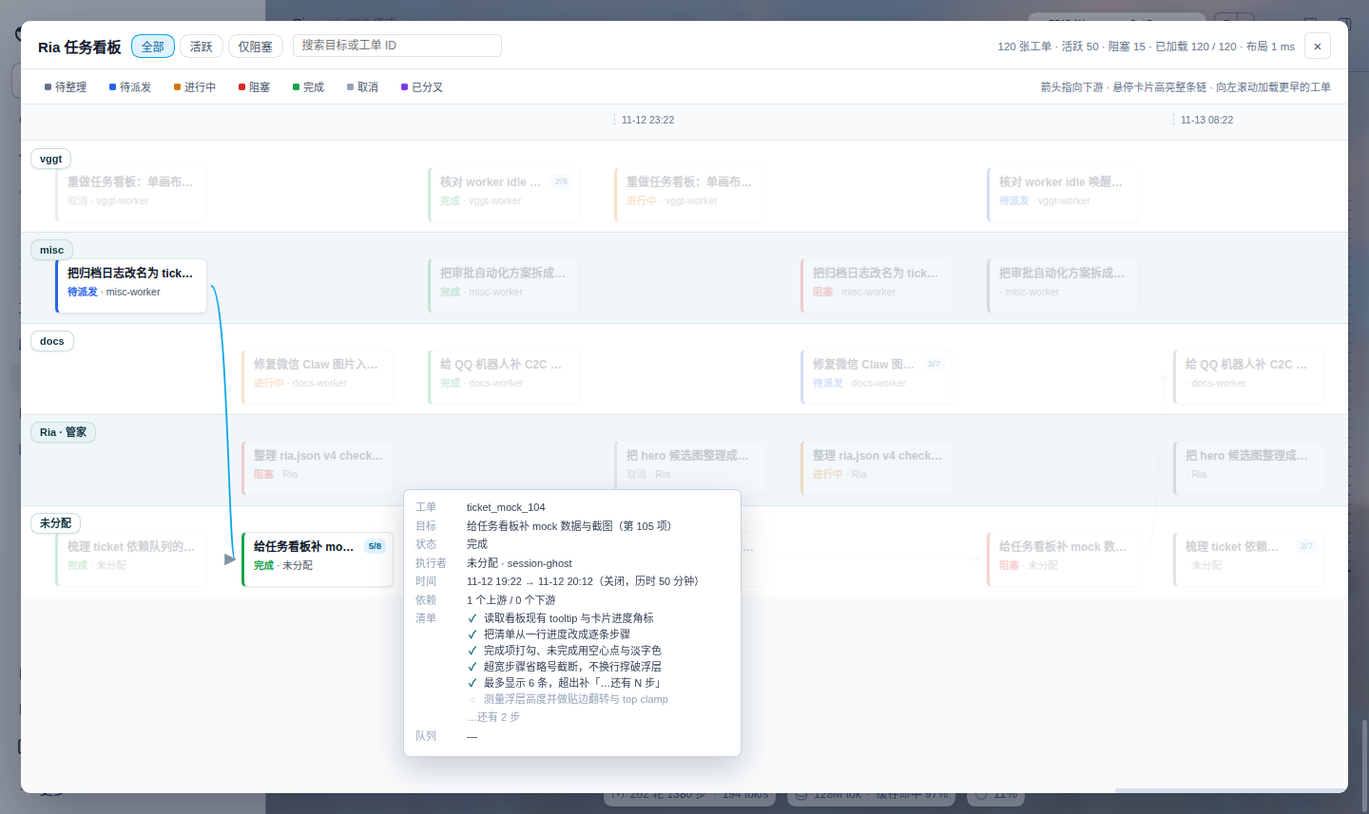
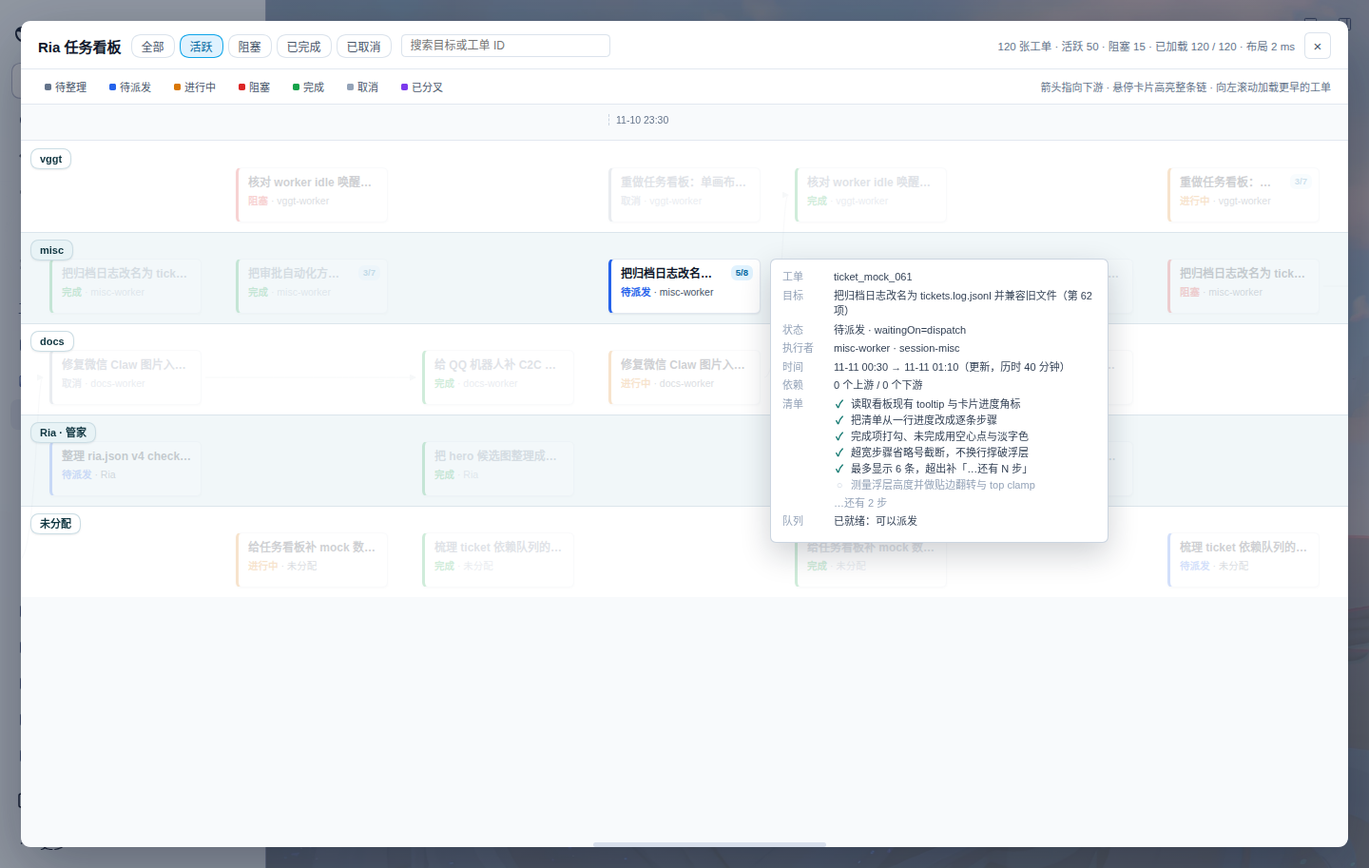
feat: dim inactive board tickets and center active ones

diff --git a/lib/client.js b/lib/client.js
@@ -827,7 +827,11 @@ window.__ModuleLoader__.load({
           React.createElement(RiaIcon, { size: props.size })
         ),
         open ? React.createElement(ChannelsDialog, { initial: status, onClose: close }) : null,
-        boardOpen ? React.createElement(BoardOverlay, { open: boardOpen, onClose: function () { setBoardOpen(false); } }) : null,
+        boardOpen ? React.createElement(BoardOverlay, {
+          open: boardOpen,
+          onClose: function () { setBoardOpen(false); },
+          onOpenSession: function (sessionId) { return openKnown(ctx, sessionId); }
+        }) : null,
         toast ? ReactDOM.createPortal(
           React.createElement(
             "div",
@@ -1243,6 +1247,58 @@ window.__ModuleLoader__.load({
     var BOARD_BAND_PAD_TOP = 28;
     var BOARD_BAND_PAD_BOTTOM = 10;
 
+    // Filtering never changes what is laid out: every tab keeps the full
+    // canvas and only dims the tickets it does not match.
+    var BOARD_FILTERS = [
+      { id: "all", label: "全部" },
+      { id: "active", label: "活跃" },
+      { id: "blocked", label: "阻塞" },
+      { id: "done", label: "已完成" },
+      { id: "cancelled", label: "已取消" }
+    ];
+    var BOARD_DEFAULT_FILTER = "active";
+
+    function boardMatchesFilter(ticket, filter) {
+      if (!ticket) return false;
+      if (!filter || filter === "all") return true;
+      if (filter === "active") return !BOARD_TERMINAL[ticket.status];
+      if (filter === "blocked") return ticket.status === "blocked";
+      return ticket.status === filter;
+    }
+
+    // Search still narrows the canvas; the status tabs do not. Keeping this
+    // separate is what lets the tabs dim cards in place instead of moving them.
+    function boardFilteredTickets(tickets, query) {
+      var list = Array.isArray(tickets) ? tickets : [];
+      var needle = String(query || "").trim().toLowerCase();
+      if (!needle) return list;
+      return list.filter(function (ticket) {
+        return String(ticket.goal || "").toLowerCase().indexOf(needle) >= 0 ||
+          String(ticket.ticketId || "").toLowerCase().indexOf(needle) >= 0;
+      });
+    }
+
+    // Center the horizontal viewport on the span of matching tickets. Returns
+    // null when nothing matches so the caller can fall back to the newest end.
+    function boardFocusScroll(layout, tickets, filter, clientWidth) {
+      var positions = layout && layout.positions;
+      if (!positions || typeof positions.get !== "function") return null;
+      var left = Infinity;
+      var right = -Infinity;
+      (Array.isArray(tickets) ? tickets : []).forEach(function (ticket) {
+        if (!boardMatchesFilter(ticket, filter)) return;
+        var position = positions.get(ticket.ticketId);
+        if (!position || !Number.isFinite(position.x)) return;
+        left = Math.min(left, position.x);
+        right = Math.max(right, position.x + BOARD_CARD_WIDTH);
+      });
+      if (!Number.isFinite(left) || !Number.isFinite(right)) return null;
+      var viewport = Math.max(0, Number(clientWidth) || 0);
+      var max = Math.max(0, (Number(layout.width) || 0) - viewport);
+      var target = (left + right) / 2 - viewport / 2;
+      return Math.max(0, Math.min(target, max));
+    }
+
     function boardStatus(status) {
       return BOARD_STATUS[status] || { label: String(status || ""), color: "#64748b" };
     }
@@ -1507,11 +1563,16 @@ window.__ModuleLoader__.load({
       var ticket = props.ticket;
       var meta = boardStatus(ticket.status);
       var progress = typeof ticket.progress === "string" ? ticket.progress : "";
+      var muted = Boolean(props.muted);
       return React.createElement(
         "div",
         {
           "data-ria-card": ticket.ticketId,
           "data-ria-status": ticket.status,
+          onClick: function (event) {
+            event.stopPropagation();
+            if (props.onOpen) props.onOpen(ticket);
+          },
           onMouseEnter: function (event) { props.onEnter(ticket, event.currentTarget); },
           onMouseLeave: props.onLeave,
           style: {
@@ -1527,9 +1588,9 @@ window.__ModuleLoader__.load({
             borderRadius: "7px",
             background: "#ffffff",
             boxShadow: "0 1px 2px rgba(15, 23, 42, 0.07)",
-            opacity: props.dimmed ? 0.2 : 1,
+            opacity: props.dimmed ? 0.2 : muted ? 0.36 : 1,
             transition: "opacity 120ms ease",
-            cursor: "default",
+            cursor: props.onOpen ? "pointer" : "default",
             overflow: "hidden",
             zIndex: 2
           }
@@ -1541,7 +1602,7 @@ window.__ModuleLoader__.load({
               paddingRight: progress ? "30px" : "0",
               fontSize: "12px",
               lineHeight: "1.35",
-              color: "#0f172a",
+              color: muted ? "#64748b" : "#0f172a",
               fontWeight: "600",
               overflow: "hidden",
               textOverflow: "ellipsis",
@@ -1557,7 +1618,7 @@ window.__ModuleLoader__.load({
               marginTop: "5px",
               fontSize: "10.5px",
               lineHeight: "1.3",
-              color: "#475569",
+              color: muted ? "#94a3b8" : "#475569",
               overflow: "hidden",
               textOverflow: "ellipsis",
               whiteSpace: "nowrap"
@@ -1733,7 +1794,7 @@ window.__ModuleLoader__.load({
       var noticeState = React.useState("");
       var notice = noticeState[0];
       var setNotice = noticeState[1];
-      var filterState = React.useState("all");
+      var filterState = React.useState(BOARD_DEFAULT_FILTER);
       var filter = filterState[0];
       var setFilter = filterState[1];
       var queryState = React.useState("");
@@ -1749,7 +1810,7 @@ window.__ModuleLoader__.load({
       var tip = tipState[0];
       var setTip = tipState[1];
       var scrollRef = React.useRef(null);
-      var initialScrollRef = React.useRef(false);
+      var focusScrollRef = React.useRef(false);
       var scrollAdjustRef = React.useRef(null);
       var loadingOlderRef = React.useRef(false);
       var suppressScrollRef = React.useRef(false);
@@ -1757,9 +1818,11 @@ window.__ModuleLoader__.load({
       React.useEffect(function () {
         if (!open) return;
         var cancelled = false;
-        initialScrollRef.current = false;
+        focusScrollRef.current = true;
         loadingOlderRef.current = false;
         scrollAdjustRef.current = null;
+        setFilter(BOARD_DEFAULT_FILTER);
+        setQuery("");
         setLoading(true);
         setError("");
         setNotice("");
@@ -1790,16 +1853,9 @@ window.__ModuleLoader__.load({
 
       var view = React.useMemo(function () {
         var all = board && Array.isArray(board.tickets) ? board.tickets : [];
-        var needle = query.trim().toLowerCase();
-        var visible = all.filter(function (ticket) {
-          if (filter === "active" && BOARD_TERMINAL[ticket.status]) return false;
-          if (filter === "blocked" && ticket.status !== "blocked") return false;
-          if (!needle) return true;
-          return String(ticket.goal || "").toLowerCase().indexOf(needle) >= 0 ||
-            String(ticket.ticketId || "").toLowerCase().indexOf(needle) >= 0;
-        });
-        return { all: all, visible: visible, layout: boardLayout(visible, board && board.lanes) };
-      }, [board, filter, query]);
+        var base = boardFilteredTickets(all, query);
+        return { all: all, base: base, layout: boardLayout(base, board && board.lanes) };
+      }, [board, query]);
 
       function loadOlder() {
         if (!board || !board.page || !board.page.hasMore || loadingOlderRef.current) return;
@@ -1842,18 +1898,26 @@ window.__ModuleLoader__.load({
 
       function onScroll(event) {
         if (suppressScrollRef.current) return;
+        focusScrollRef.current = false;
         setTip(null);
         setHover(null);
         if (event.currentTarget.scrollLeft < 180) loadOlder();
       }
 
+      // Center the matching tickets once per open or tab switch. Layout
+      // recomputes (search, older pages) must never steal the user's scroll.
       React.useLayoutEffect(function () {
-        if (!open || !board || initialScrollRef.current) return;
+        if (!open || !board || !focusScrollRef.current) return;
         var scroll = scrollRef.current;
         if (!scroll) return;
-        scroll.scrollLeft = Math.max(0, scroll.scrollWidth - scroll.clientWidth);
-        initialScrollRef.current = true;
-      }, [open, board, view.layout.width]);
+        var target = boardFocusScroll(view.layout, view.base, filter, scroll.clientWidth);
+        suppressScrollRef.current = true;
+        scroll.scrollLeft = target === null
+          ? Math.max(0, scroll.scrollWidth - scroll.clientWidth)
+          : Math.min(target, Math.max(0, scroll.scrollWidth - scroll.clientWidth));
+        focusScrollRef.current = false;
+        requestAnimationFrame(function () { suppressScrollRef.current = false; });
+      }, [open, board, filter, view.layout.width]);
 
       React.useLayoutEffect(function () {
         if (!open) return;
@@ -1866,6 +1930,23 @@ window.__ModuleLoader__.load({
         scrollAdjustRef.current = null;
         requestAnimationFrame(function () { suppressScrollRef.current = false; });
       }, [open, board]);
+
+      function openTicket(ticket) {
+        if (!ticket) return;
+        var sessionId = ticket.executor === "self"
+          ? ((board && board.riaSessionId) || knownRiaId)
+          : ticket.executor;
+        if (!sessionId || ticket.executorMissing) {
+          setNotice("这个工单的执行会话已不存在，无法打开。");
+          return;
+        }
+        if (typeof props.onOpenSession !== "function") return;
+        Promise.resolve(props.onOpenSession(sessionId)).then(function () {
+          onClose();
+        }).catch(function (failure) {
+          setNotice("打开会话失败：" + messageOf(failure));
+        });
+      }
 
       function showTip(ticket, node) {
         var box = node.getBoundingClientRect();
@@ -1954,13 +2035,19 @@ window.__ModuleLoader__.load({
             React.createElement(
               "div",
               { style: { display: "flex", gap: "5px", flexWrap: "wrap" } },
-              [{ id: "all", label: "全部" }, { id: "active", label: "活跃" }, { id: "blocked", label: "仅阻塞" }].map(function (item) {
+              BOARD_FILTERS.map(function (item) {
                 return React.createElement(
                   "button",
                   {
                     key: item.id,
                     type: "button",
-                    onClick: function () { setFilter(item.id); },
+                    "aria-pressed": filter === item.id,
+                    onClick: function () {
+                      if (item.id !== filter) {
+                        focusScrollRef.current = true;
+                        setFilter(item.id);
+                      }
+                    },
                     style: {
                       cursor: "pointer",
                       padding: "3px 10px",
@@ -2049,8 +2136,8 @@ window.__ModuleLoader__.load({
             loading && !board ? React.createElement("div", { style: { padding: "40px", textAlign: "center", color: "#64748b", fontSize: "13px" } }, "正在读取任务…") : null,
             error ? React.createElement("div", { style: { padding: "30px", color: "#b91c1c", fontSize: "13px" } }, "看板读取失败：" + error) : null,
             !loading && !error && board && !view.all.length ? React.createElement("div", { style: { padding: "40px", textAlign: "center", color: "#64748b", fontSize: "13px" } }, "还没有任务。") : null,
-            !loading && !error && board && view.all.length && !view.visible.length ? React.createElement("div", { style: { padding: "40px", textAlign: "center", color: "#64748b", fontSize: "13px" } }, "当前筛选下没有任务。") : null,
-            board && view.visible.length ? React.createElement(
+            !loading && !error && board && view.all.length && !view.base.length ? React.createElement("div", { style: { padding: "40px", textAlign: "center", color: "#64748b", fontSize: "13px" } }, "当前筛选下没有任务。") : null,
+            board && view.base.length ? React.createElement(
               React.Fragment,
               null,
               React.createElement(
@@ -2137,17 +2224,22 @@ window.__ModuleLoader__.load({
                     });
                   })
                 ),
-                view.visible.map(function (ticket) {
+                view.base.map(function (ticket) {
                   var position = view.layout.positions.get(ticket.ticketId);
                   if (!position) return null;
                   var dimmed = (focus !== null && ticket.status !== focus) || (chain !== null && !chain.has(ticket.ticketId));
+                  var muted = filter !== "all" &&
+                    !boardMatchesFilter(ticket, filter) &&
+                    !(chain !== null && chain.has(ticket.ticketId));
                   return React.createElement(BoardCard, {
                     key: ticket.ticketId,
                     ticket: ticket,
                     position: position,
                     dimmed: dimmed,
+                    muted: muted,
                     onEnter: showTip,
-                    onLeave: hideTip
+                    onLeave: hideTip,
+                    onOpen: openTicket
                   });
                 }),
                 React.createElement(

diff --git a/docs/testing.md b/docs/testing.md
@@ -6,7 +6,7 @@
 npm test
 ~~~
 
-smoke 使用 mock ctx 覆盖 ensure、Workspace 挂载、12 个工具、request、工单派发都不加前缀、dispatch guard section 安装到 worker 和 Ria、GET/POST /settings 与 GET /state 的 settings、status、read、memory、持久化、grant 的 set/list/reset 与工单关闭恢复，以及新建 Ria 不写任何 session 事件和第二次 ensure 不重复；近期 worker 覆盖空列表、工单派发后候选的 title/cwd/lastUsedAt/lastTicketGoal/lastTicketStatus、失败请求不更新、scope=sessions 字段、ria.json 持久化和 lossless；dispatch-guard 测试覆盖 installAll、agent/created 与 disposed、重复安装、开关关闭时 text 为空、注册失败只 warn 和 shutdown；wechat 测试覆盖 assistant 文本提取、入口事件过滤、微信入站去重/回显过滤、失败标记、reconnect skip、状态视图，以及图片开关默认开启与显式关闭；wechat-image 测试覆盖图片上传/发送字段与去重、成功发送、暂停、本机相对路径图片提取、缺失/非图片回退、围栏代码跳过和 outbound 关闭；wechat-image-inbound 测试覆盖 webwxgetmsgimg 失败回落 webwxgetmedia、Cookie 与 query、Content-Length/流式超限、无 Cookie 错误传播、落盘命名与重名、纯图片占位、下载失败/空/超限/未知类型降级、30 天与 500 个清理、宿主附件校验失败与投递失败回退纯文本、InboundBridge 投递 text+image；channels 测试覆盖账号 id 归一、二维码 data URL、通道 request id 前缀与互斥、QQ AES-256-GCM 绑定密钥解密与篡改拒绝、客户端通道目录顺序、最近通道存储键与回退、弹窗点击事件隔离，以及微信 Claw 和 QQ 的完整扫码流程（本地假服务、二维码轮询、凭据落盘、暂停恢复）；wechat-claw-image 测试覆盖图片开关归一、AES 解密入站、落盘权限与路径、非图片 item 拒绝、下载失败/超限/文件头错误、inbound 关闭、getuploadurl 字段与 CDN 密文、sendmessage image_item、上传失败回退可见文本、围栏代码跳过、outbound 关闭和暂停不发；wechat-claw-typing 测试覆盖 typing 工单缓存与 ret!=0 重取、start→refresh→cancel 顺序、取消先于出站发送、暂停取消、typing 异常静默仍可收发和开关关闭零请求；qq-bot-typing 测试覆盖 C2C 触发与字段（msg_type/input_notify/msg_seq/msg_id）、群聊与频道不触发、续期次数与回复后停止、异常静默、暂停清理、只有出站不触发和开关关闭零请求；wechat-file 测试覆盖阈值/代码块/表格/标题/链接判定、配置/env 覆盖、文件名、短消息不变、长消息发 .md、失败回退文本，以及上传 multipart 和 appmsg 的字段/签名/去重；approvals 测试覆盖只记录活跃 executor、始终 next()、abort/超时/shutdown 清理和 lossless 输出；grants 测试覆盖过期、startup、工单缺失/关闭、漂移跳过、恢复失败和审计；startup 测试覆盖达到恢复上限后的通知与 blocked 状态、更新/成功派发清零、以及启动异常通知；worker-idle 测试覆盖正常触发、排除 Ria、非 working 工单/running 状态不触发、按工单节流、开关关闭，以及提示文本要求 read/不假设完成/等用户输入时标 blocked；wechat-pause 测试覆盖手动开关与持久化、非微信消息自动暂停、微信入站自动恢复、host_/schedule 合成消息不触发、manual 优先级、暂停时不出站且丢日志、排队丢弃而在途完成、重启保持，以及恢复后补发 outbox；smoke 还验证 pause/unpause 往返后 pausedAt、resumedAt、pausedBy 和重复读取 status 的字段一致；以及 dispatch-notes 按 session/turn 过滤、错误 session 返回空列表、note 持久化、无 note 的请求不记录、snapshot 读取失败仍派发并记录 note；wechat 和 smoke 还覆盖派发 note 的微信镜像：工单格式、未登录/暂停/发送异常都不影响派发与 concludeTurn，失败条目留在 outbox 并可按退避补投；spawn 测试覆盖新建顶层 worker 的参数、title、失败码与 ria_status 可见性；model 测试覆盖 ria_spawn 带 model、创建前拒绝未知模型、创建后 selectModel 失败的回执、ria_model 改模型与 previous、未知/歧义模型、归档/subagent/不存在会话、改 Ria 自己，以及 sessions/recent 的模型字段；title 测试覆盖成功改名与 previous、session_missing、subagent 的 not_top_level、归档、宿主 title_invalid 原 message 透传，以及改 Ria 自己；attachments 测试覆盖图片 content 投递、attachment_missing/attachment_invalid/model_no_image、多目标部分成功，以及失败不投递、不写 recentWorkers、不动工单；checklist 测试覆盖 v3 文件加载与 .v3.bak 备份、创建/追加/显式清勾/replaceAll 保留勾选/drop、check 成功与越界/非布尔/终态/混用拒绝、ria_status 与看板 progress、归档摘要最多 5 条未勾项；attention 测试覆盖结构化问题的设置/读取/清空、旧 blockedReason 工单和 ria_status 输出；board 测试覆盖 /board 的 counts/lanes/tickets 投影、executor=self 归 Ria、缺失 worker 与归档标记、workspaceRegistry 读取失败仍返回、注册路由的 JSON 响应，以及泳道布局（同 lane 同带、带内行不重叠、未分配最后、带高随行数、跨带依赖只移列不跨带、cwd 末段回退、标签 sticky 源码）；outbox 测试覆盖幂等入队、重载、退避与 6 次上限、delivered 清理、坏文件恢复、无活跃 turn 排队、turn 开始后补投、失败原因可见和 startup 补投；queue 测试覆盖 queued/steering/context 三种 placement、itemId/rpcId 撤回、item 不存在、rpcId 解析失败、session_missing/not_top_level/session_archived、冷会话 queue=null、updateQueue 错误映射；ticket-queue 测试覆盖依赖工单停在 open/dependency 不可派、ready 只唤醒一次、queueToken 缺失/过期、worker_busy 拒绝 queue 但 steer 放行、依赖输入校验（自指/重复/缺失/环/上限）整次不写入、failed/cancelled 告警而 blocked 不告警、级联取消把 working 下游记为 deferred、merge 转移依赖边、ria_status 的 queue 输出与 ria_resolve 带 dependsOn；ticket-queue-restart 测试覆盖 v2→v3 迁移与备份、startup 重算依赖、恢复单位排除排队工单、排队摘要合并、未派发 ready 工单补发 boot wake；archive 测试覆盖新名写入、旧名读取、旧名启动迁移幂等、同 ticketId+closedAt 去重、reopen 与月日志保留。
+smoke 使用 mock ctx 覆盖 ensure、Workspace 挂载、12 个工具、request、工单派发都不加前缀、dispatch guard section 安装到 worker 和 Ria、GET/POST /settings 与 GET /state 的 settings、status、read、memory、持久化、grant 的 set/list/reset 与工单关闭恢复，以及新建 Ria 不写任何 session 事件和第二次 ensure 不重复；近期 worker 覆盖空列表、工单派发后候选的 title/cwd/lastUsedAt/lastTicketGoal/lastTicketStatus、失败请求不更新、scope=sessions 字段、ria.json 持久化和 lossless；dispatch-guard 测试覆盖 installAll、agent/created 与 disposed、重复安装、开关关闭时 text 为空、注册失败只 warn 和 shutdown；wechat 测试覆盖 assistant 文本提取、入口事件过滤、微信入站去重/回显过滤、失败标记、reconnect skip、状态视图，以及图片开关默认开启与显式关闭；wechat-image 测试覆盖图片上传/发送字段与去重、成功发送、暂停、本机相对路径图片提取、缺失/非图片回退、围栏代码跳过和 outbound 关闭；wechat-image-inbound 测试覆盖 webwxgetmsgimg 失败回落 webwxgetmedia、Cookie 与 query、Content-Length/流式超限、无 Cookie 错误传播、落盘命名与重名、纯图片占位、下载失败/空/超限/未知类型降级、30 天与 500 个清理、宿主附件校验失败与投递失败回退纯文本、InboundBridge 投递 text+image；channels 测试覆盖账号 id 归一、二维码 data URL、通道 request id 前缀与互斥、QQ AES-256-GCM 绑定密钥解密与篡改拒绝、客户端通道目录顺序、最近通道存储键与回退、弹窗点击事件隔离，以及微信 Claw 和 QQ 的完整扫码流程（本地假服务、二维码轮询、凭据落盘、暂停恢复）；wechat-claw-image 测试覆盖图片开关归一、AES 解密入站、落盘权限与路径、非图片 item 拒绝、下载失败/超限/文件头错误、inbound 关闭、getuploadurl 字段与 CDN 密文、sendmessage image_item、上传失败回退可见文本、围栏代码跳过、outbound 关闭和暂停不发；wechat-claw-typing 测试覆盖 typing 工单缓存与 ret!=0 重取、start→refresh→cancel 顺序、取消先于出站发送、暂停取消、typing 异常静默仍可收发和开关关闭零请求；qq-bot-typing 测试覆盖 C2C 触发与字段（msg_type/input_notify/msg_seq/msg_id）、群聊与频道不触发、续期次数与回复后停止、异常静默、暂停清理、只有出站不触发和开关关闭零请求；wechat-file 测试覆盖阈值/代码块/表格/标题/链接判定、配置/env 覆盖、文件名、短消息不变、长消息发 .md、失败回退文本，以及上传 multipart 和 appmsg 的字段/签名/去重；approvals 测试覆盖只记录活跃 executor、始终 next()、abort/超时/shutdown 清理和 lossless 输出；grants 测试覆盖过期、startup、工单缺失/关闭、漂移跳过、恢复失败和审计；startup 测试覆盖达到恢复上限后的通知与 blocked 状态、更新/成功派发清零、以及启动异常通知；worker-idle 测试覆盖正常触发、排除 Ria、非 working 工单/running 状态不触发、按工单节流、开关关闭，以及提示文本要求 read/不假设完成/等用户输入时标 blocked；wechat-pause 测试覆盖手动开关与持久化、非微信消息自动暂停、微信入站自动恢复、host_/schedule 合成消息不触发、manual 优先级、暂停时不出站且丢日志、排队丢弃而在途完成、重启保持，以及恢复后补发 outbox；smoke 还验证 pause/unpause 往返后 pausedAt、resumedAt、pausedBy 和重复读取 status 的字段一致；以及 dispatch-notes 按 session/turn 过滤、错误 session 返回空列表、note 持久化、无 note 的请求不记录、snapshot 读取失败仍派发并记录 note；wechat 和 smoke 还覆盖派发 note 的微信镜像：工单格式、未登录/暂停/发送异常都不影响派发与 concludeTurn，失败条目留在 outbox 并可按退避补投；spawn 测试覆盖新建顶层 worker 的参数、title、失败码与 ria_status 可见性；model 测试覆盖 ria_spawn 带 model、创建前拒绝未知模型、创建后 selectModel 失败的回执、ria_model 改模型与 previous、未知/歧义模型、归档/subagent/不存在会话、改 Ria 自己，以及 sessions/recent 的模型字段；title 测试覆盖成功改名与 previous、session_missing、subagent 的 not_top_level、归档、宿主 title_invalid 原 message 透传，以及改 Ria 自己；attachments 测试覆盖图片 content 投递、attachment_missing/attachment_invalid/model_no_image、多目标部分成功，以及失败不投递、不写 recentWorkers、不动工单；checklist 测试覆盖 v3 文件加载与 .v3.bak 备份、创建/追加/显式清勾/replaceAll 保留勾选/drop、check 成功与越界/非布尔/终态/混用拒绝、ria_status 与看板 progress、归档摘要最多 5 条未勾项；attention 测试覆盖结构化问题的设置/读取/清空、旧 blockedReason 工单和 ria_status 输出；board 测试覆盖 /board 的 counts/lanes/tickets 投影、executor=self 归 Ria、缺失 worker 与归档标记、workspaceRegistry 读取失败仍返回、注册路由的 JSON 响应，以及泳道布局（同 lane 同带、带内行不重叠、未分配最后、带高随行数、跨带依赖只移列不跨带、cwd 末段回退、标签 sticky 源码）、筛选默认活跃与灰化不改布局、活跃区间居中与回退最右；outbox 测试覆盖幂等入队、重载、退避与 6 次上限、delivered 清理、坏文件恢复、无活跃 turn 排队、turn 开始后补投、失败原因可见和 startup 补投；queue 测试覆盖 queued/steering/context 三种 placement、itemId/rpcId 撤回、item 不存在、rpcId 解析失败、session_missing/not_top_level/session_archived、冷会话 queue=null、updateQueue 错误映射；ticket-queue 测试覆盖依赖工单停在 open/dependency 不可派、ready 只唤醒一次、queueToken 缺失/过期、worker_busy 拒绝 queue 但 steer 放行、依赖输入校验（自指/重复/缺失/环/上限）整次不写入、failed/cancelled 告警而 blocked 不告警、级联取消把 working 下游记为 deferred、merge 转移依赖边、ria_status 的 queue 输出与 ria_resolve 带 dependsOn；ticket-queue-restart 测试覆盖 v2→v3 迁移与备份、startup 重算依赖、恢复单位排除排队工单、排队摘要合并、未派发 ready 工单补发 boot wake；archive 测试覆盖新名写入、旧名读取、旧名启动迁移幂等、同 ticketId+closedAt 去重、reopen 与月日志保留。
 
 ## 本地开发与隔离验证
 

diff --git a/docs/board-preview.md b/docs/board-preview.md
@@ -12,7 +12,7 @@
 - 带高按该带实际行数自适应，卡片只在所属带内换行，上游行中位数对齐也只在同带内生效，卡片不会跨带；跨带依赖只画箭头、不搬卡片。
 - 卡片 160×58：第一行是去掉空白与首句、最多 22 字的 goal 摘要，第二行是「状态 · 执行者」，右上角是清单进度（如 3/7），不再显示工单短 id。
 - 依赖用 cubic SVG 箭头从上游指向下游，允许跨带；悬停卡片时整条上下游链高亮，其余卡片与边淡出，并弹出完整信息浮层（goal、状态/waitingOn、执行者与 sessionId、创建/关闭时间与历时、依赖/被依赖数、清单逐条、排队原因）；清单每行一步，完成项打 ✓、未完成项用空心点，最多显示 6 步，多出的以「…还有 N 步」收尾。
-- 顶部有搜索框和全部/活跃/仅阻塞筛选；图例可高亮状态。默认加载最新 60 张并停在最右；向左滚到距左缘 180px 时自动按 `before` 加载更早的 60 张，加载后保持视口位置。
+- 顶部有搜索框和全部/活跃/阻塞/已完成/已取消筛选；筛选只灰化不匹配的卡片（opacity 0.36、文字变淡），卡片和依赖箭头都留在原位，灰化卡片仍可悬停看详情、点击打开执行会话。默认选中「活跃」并把视野滚到活跃工单区间中点；没有活跃工单才回退最右。图例可高亮状态。默认加载最新 60 张；向左滚到距左缘 180px 时自动按 `before` 加载更早的 60 张，加载后保持视口位置。
 
 ## 数据与复现
 
@@ -31,12 +31,12 @@ cp -a lib/. ~/.dsh/profiles/web/node_modules/dsh-ria/lib/
 dsh-daemon restart
 ~~~
 
-截图 `assets/ria-board-tooltip.png` 是悬停 `ticket_mock_104` 时的完整信息浮层与链高亮；这张 mock 工单带 8 步清单（5 步已完成），浮层只列出前 6 步并显示「…还有 2 步」。
+截图 `assets/ria-board-tooltip.png` 是默认「活跃」视野下悬停 `ticket_mock_061` 时的完整信息浮层与链高亮；这张 mock 工单带 8 步清单（5 步已完成），浮层只列出前 6 步并显示「…还有 2 步」。
 
 ## 已覆盖的边界
 
-- 没有工单、筛选后为空、worker 会话缺失、worker 已归档、workspace registry 读取失败。
+- 没有工单、搜索无结果、worker 会话缺失、worker 已归档、workspace registry 读取失败。
 - 无依赖的工单不画箭头；有依赖时只高亮整条相关链。
 - 热存与归档日志合并；归档工单带 `archived:true`，不会因为不在热存里而从看板消失。
 - 分页去重、加载更早失败提示、没有更早数据时停止请求。
-- 120 张 mock 工单实测：画布宽 7970px，面板 1396×813，默认 `scrollLeft` 6574 等于最大滚动值，布局约 1ms；横向滚动 240px 后项目标签仍停在屏幕 x=32，验证 sticky 生效；仅阻塞筛选 15 张，搜索无结果显示空状态。
+- 120 张 mock 工单实测：画布宽 7970px，面板 1396×869，默认「活跃」、布局约 2ms；`scrollLeft` 3444（最大 6574），活跃区间中点与视口中心偏差 0px，可见 9 张活跃卡、70 张灰化卡。切到「阻塞」后仍是 120 张卡，105 张灰化（15 张阻塞正常）；搜索无结果显示空状态。横向滚动 240px 后项目标签仍停在屏幕 x=32，验证 sticky 生效。
